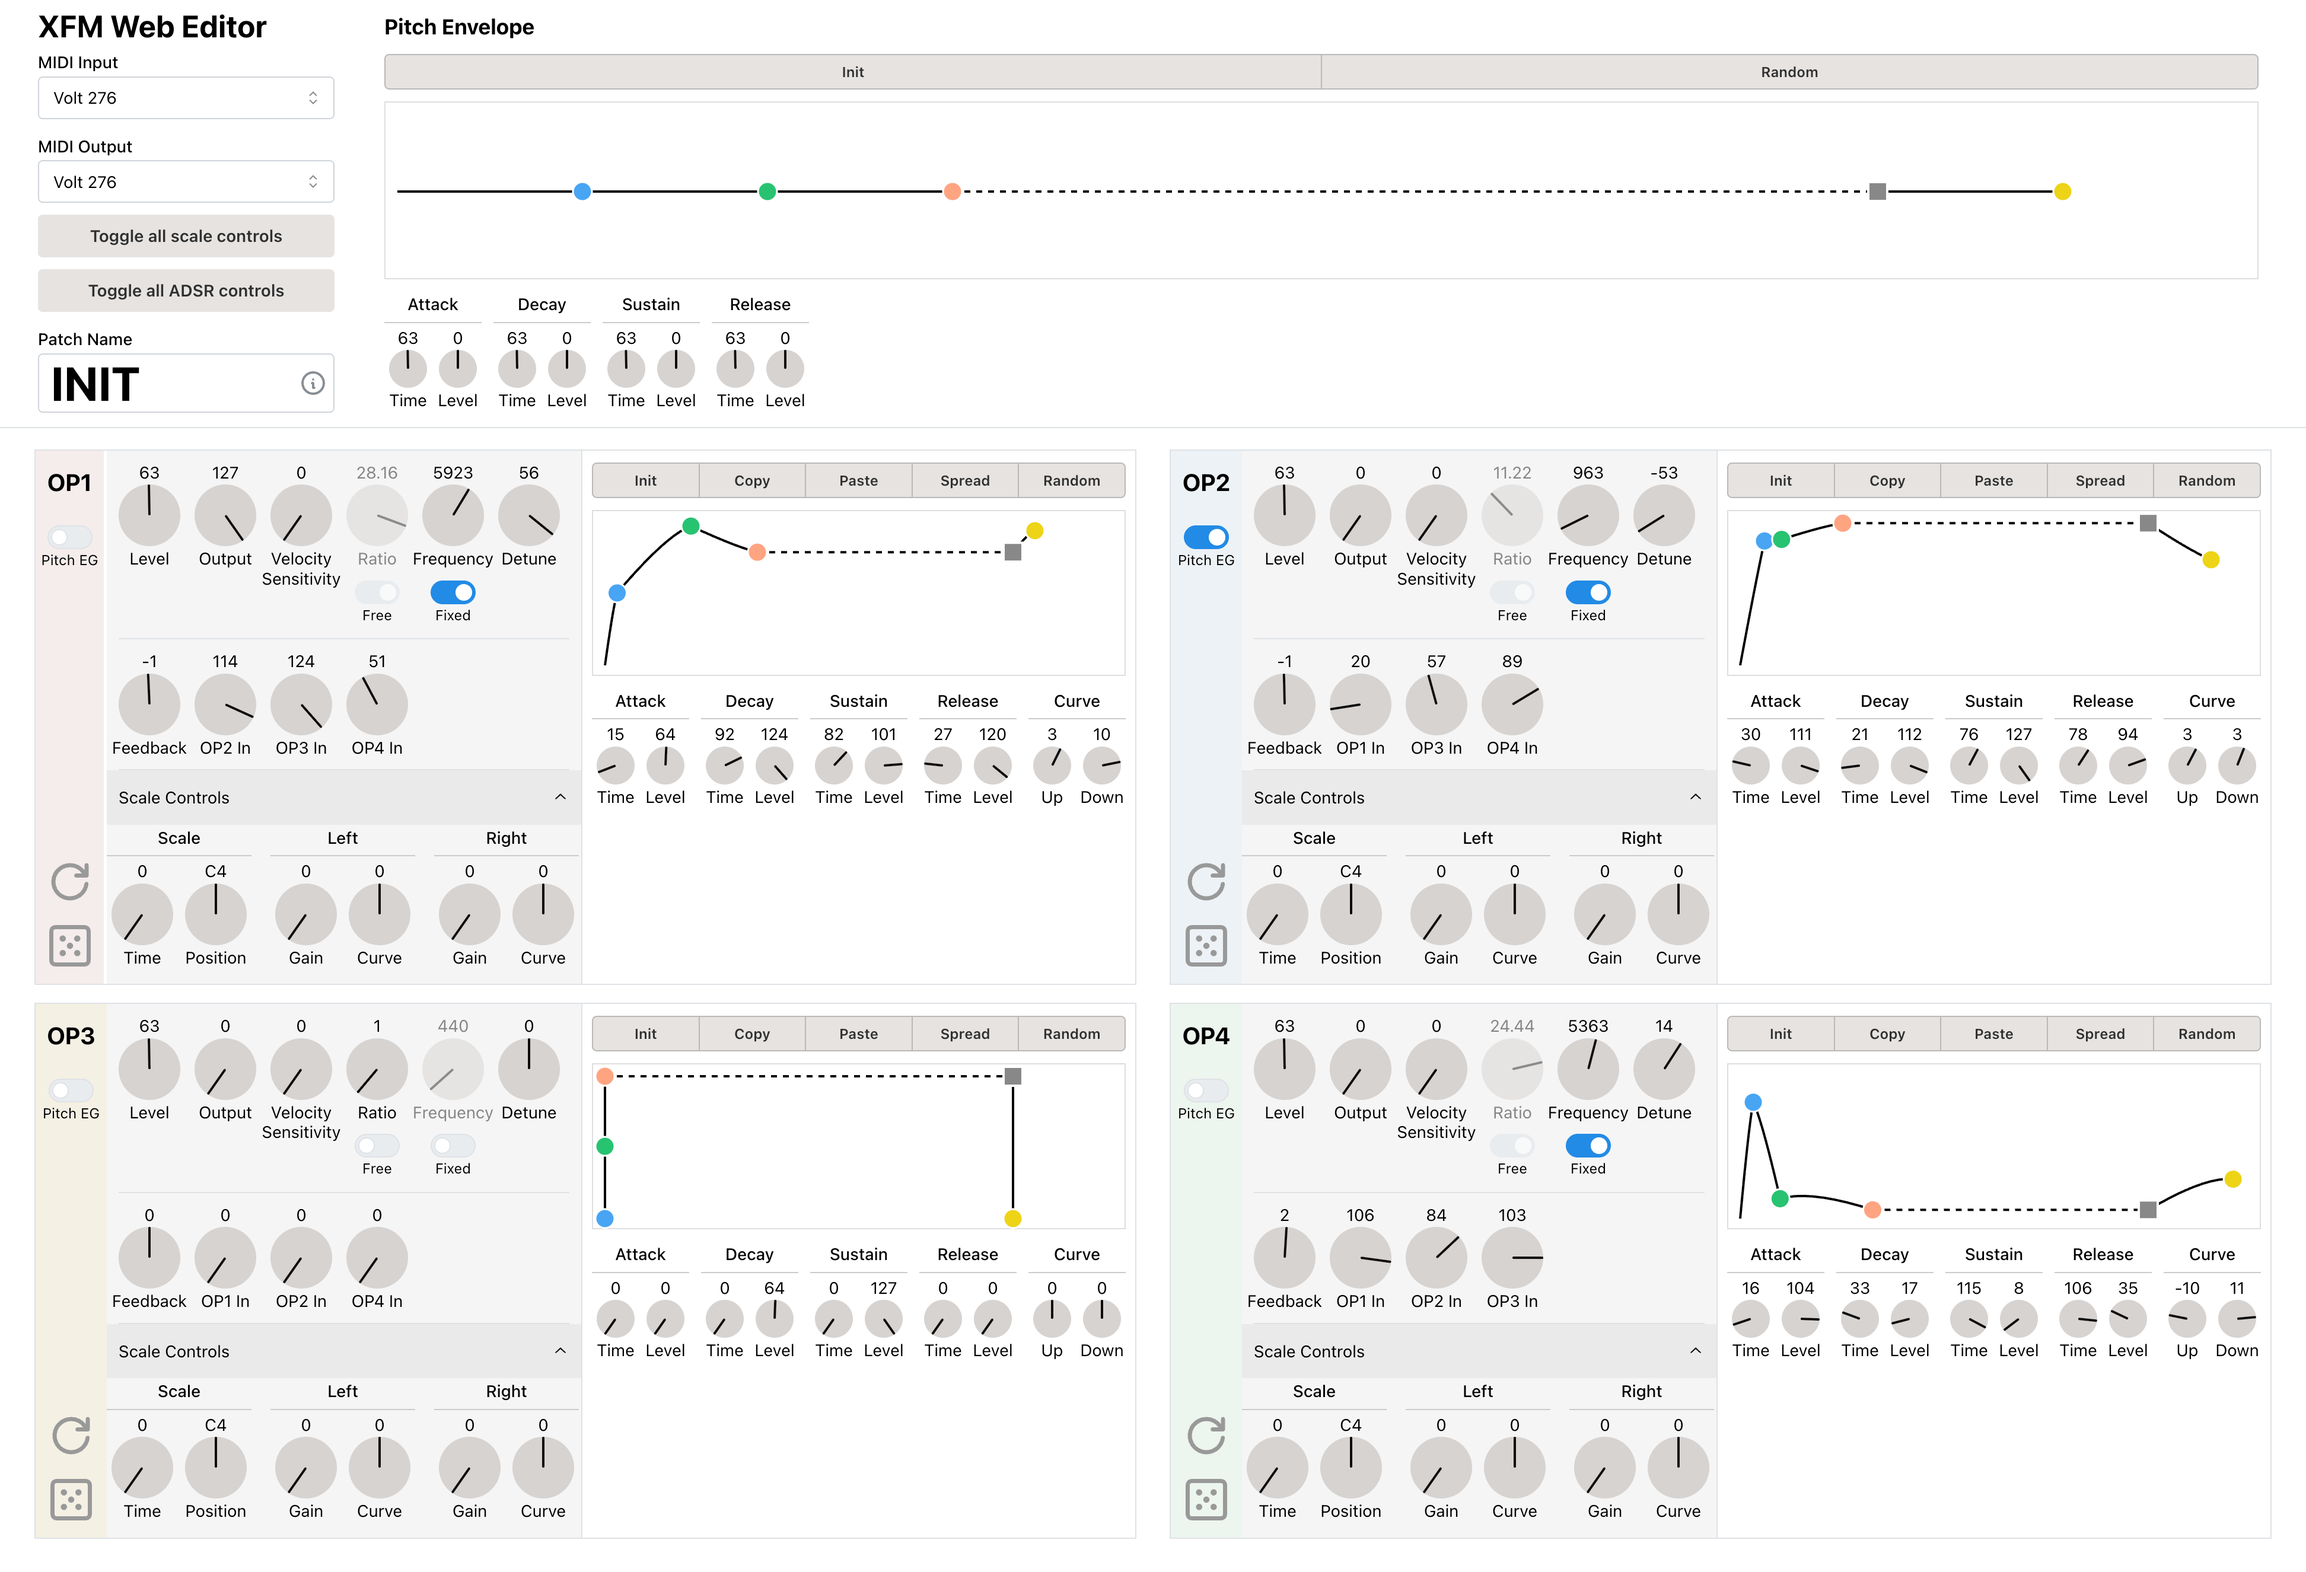
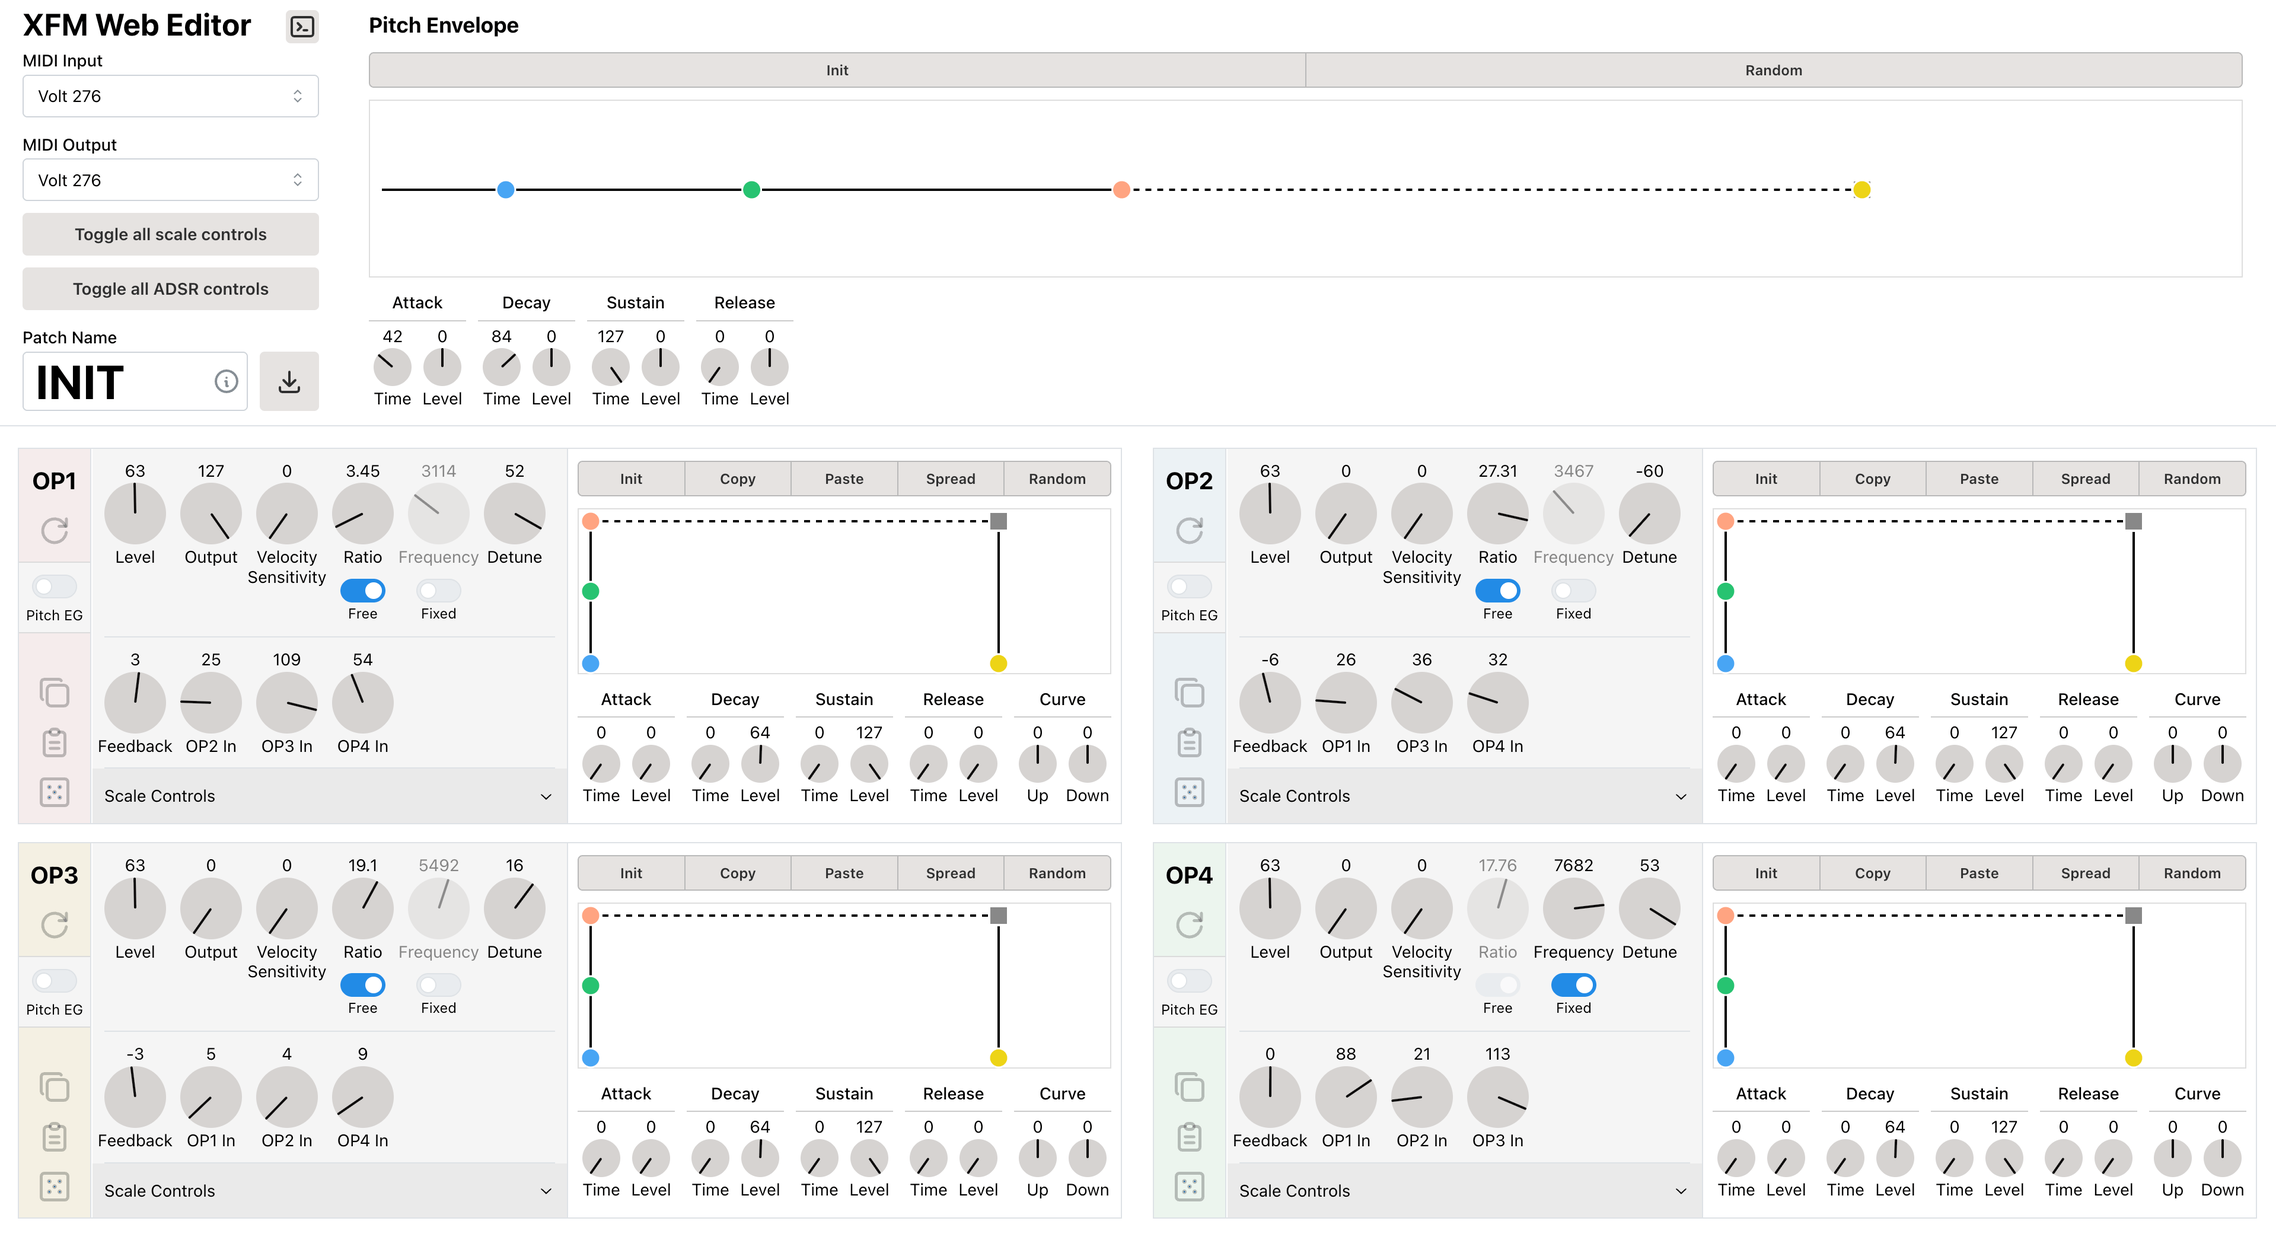
Update README and screenshot

diff --git a/README.md b/README.md
@@ -1,15 +1,22 @@
 # Sonicware Liven XFM Web Editor
 
-This project wouldn't have been possible without the amazing work done by **Cliff Lawson for his Python XFM Editor** (https://github.com/wrightflyer/XFM/): deciphering XFM's sysex dumps, mapping the bytes to parameters, explaining the 7-8 bit transformation, and much more. Some of the code in this repository is a direct conversion from the original code in Python to Typescript, and this web editor uses the same JSON structure as the Python one to ensure compatibility. A big **thank you** from the bottom of my heart goes to Mr. Lawson :bow:
+This project wouldn't have been possible without the amazing work done by **Cliff Lawson for his Python XFM Editor** (https://github.com/wrightflyer/XFM/): deciphering XFM's Sysex dumps, mapping the bytes to parameters, explaining the 7-8 bit transformation, and much more. Some of the code in this repository is a direct conversion from the original code in Python to Typescript, and this web editor uses the same JSON structure as the Python one to ensure compatibility. A big **thank you** from the bottom of my heart goes to Mr. Lawson :bow:
 
 Visit the online version on Github pages https://aesqe.github.io/sonicware-liven-xfm-web-editor/ or clone the repo locally, run `yarn install` and then `yarn dev`.
 
-## Instructions
+## Basic Instructions
 
 1. Connect your Liven XFM machine to the computer using MIDI cables, both the IN and OUT ports
 2. Open the XFM Web Editor and select your MIDI IN and OUT ports in the top-left dropdown menus
 3. Switch XFM to Edit mode
 4. Move things around in the web editor
+
+## Additional Instructions
+
+* You can download the current patch as a JSON file by clicking the :arrow_down: button next to the patch name editor
+* You can drag and drop a JSON patch file anywhere on the page and the editor will read it and update patch values
+* If you work on a patch in the web editor and then change a parameter value on the device, that will not be automatically reflected in the web editor. You'll need to press the `MIDI EXPORT` button on the device and then confirm by pressing the `OK` button to send the updated values to the web editor.
+* To toggle logging of `Sysex` messages to the browser console, click the button next to the `XFM Web Editor` title in the top left corner of the page. You can open the browser developer tools and switch to the console tab to view `Sysex` messages when the button is green.
 
 ## Screenshot
 
